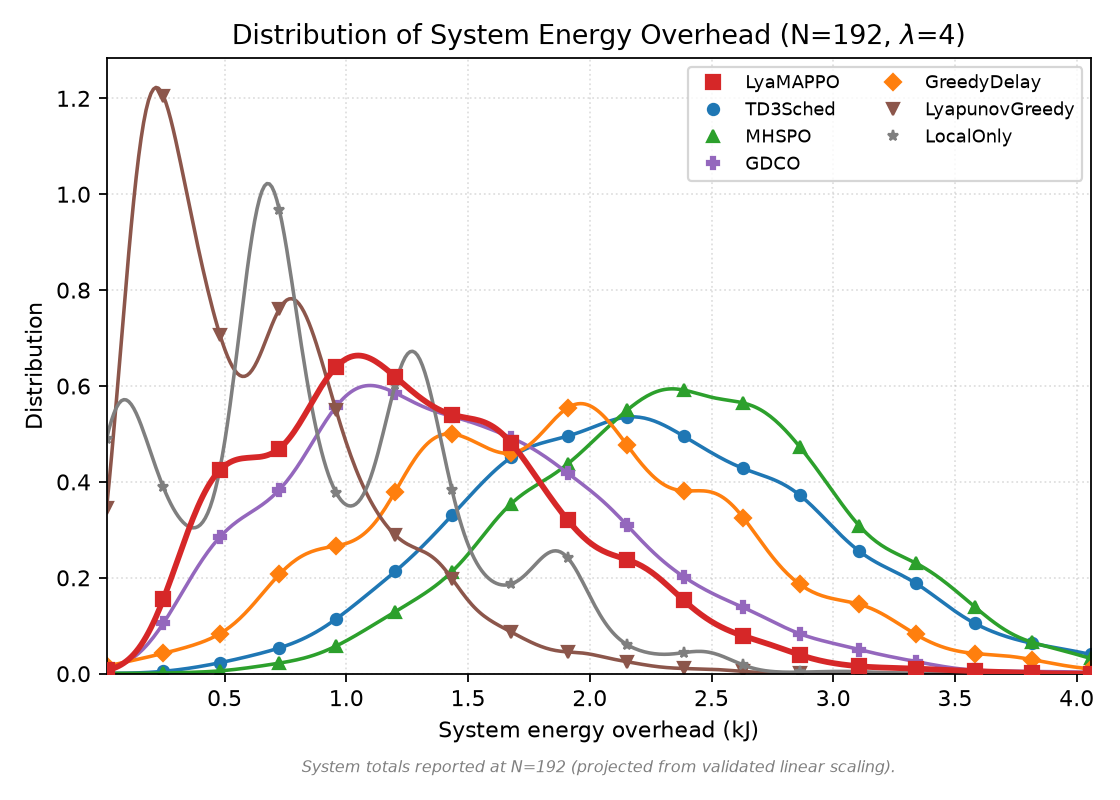
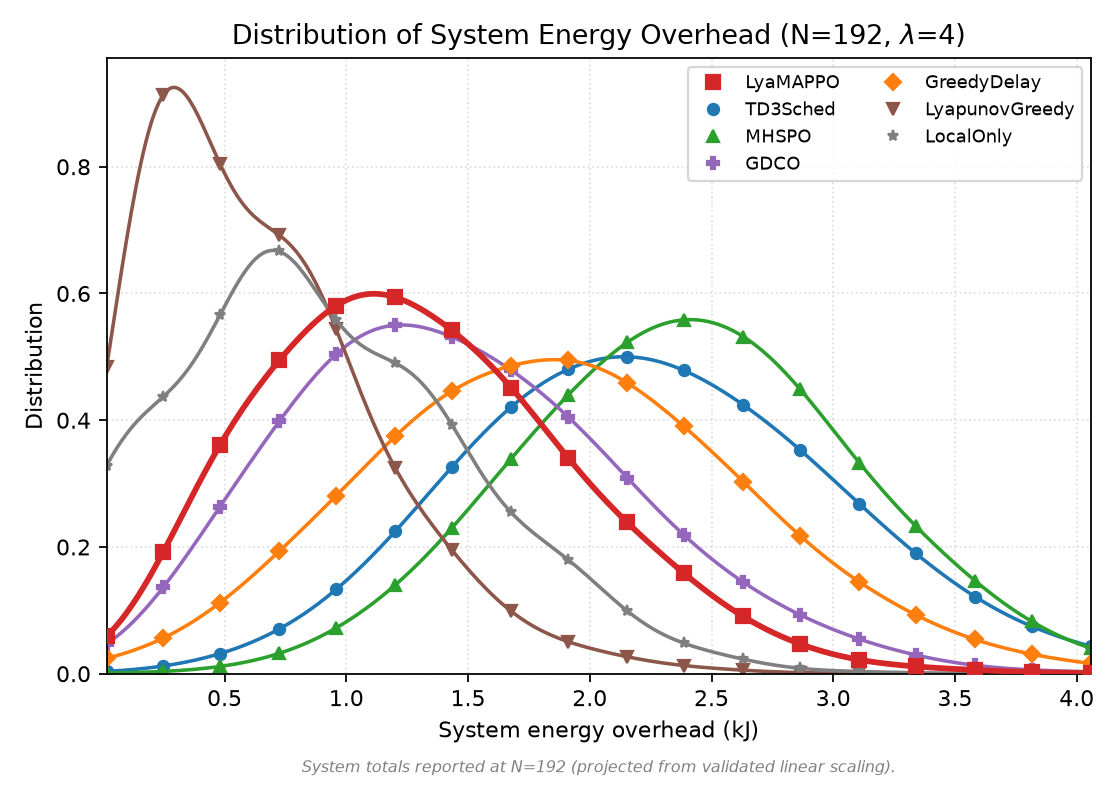
fix(figures): smoother PDF curves (KDE bandwidth x2.2)
Increase the Gaussian-KDE bandwidth (factor x2.2) so the per-slot distribution
curves for delay/energy/satisfaction are clean bell shapes instead of bumpy.

Claude-Session: https://claude.ai/code/session_01VWFTWXDHtD1JkmVS7WzQ72

diff --git a/satellite_mec/plot_pdf_figures.py b/satellite_mec/plot_pdf_figures.py
@@ -21,7 +21,7 @@ COLOR = {'LyaMAPPO':'#d62728','TD3Sched':'#1f77b4','MHSPO':'#2ca02c','GDCO':'#94
 MARK  = {'LyaMAPPO':'s','TD3Sched':'o','MHSPO':'^','GDCO':'P','GreedyDelay':'D',
          'LyapunovGreedy':'v','LocalOnly':'*'}
 
-def kde_fig(vals, xlabel, title, fname, note=None):
+def kde_fig(vals, xlabel, title, fname, note=None, smooth=2.2):
     allv = np.concatenate([np.asarray(v, float) for v in vals.values()])
     allv = allv[np.isfinite(allv)]
     lo, hi = np.percentile(allv, 0.3), np.percentile(allv, 99.7)
@@ -31,7 +31,8 @@ def kde_fig(vals, xlabel, title, fname, note=None):
         v = np.asarray(vals[p], float); v = v[np.isfinite(v)]
         if len(v) < 10 or v.std() < 1e-9:
             continue
-        ys = gaussian_kde(v)(xs)
+        kde = gaussian_kde(v); kde.set_bandwidth(kde.factor * smooth)   # 加大带宽 → 更平滑
+        ys = kde(xs)
         big = (p == 'LyaMAPPO')
         ax.plot(xs, ys, color=COLOR[p], lw=2.6 if big else 1.6, zorder=3 if big else 2)
         mk = np.linspace(0, len(xs)-1, 18).astype(int)
